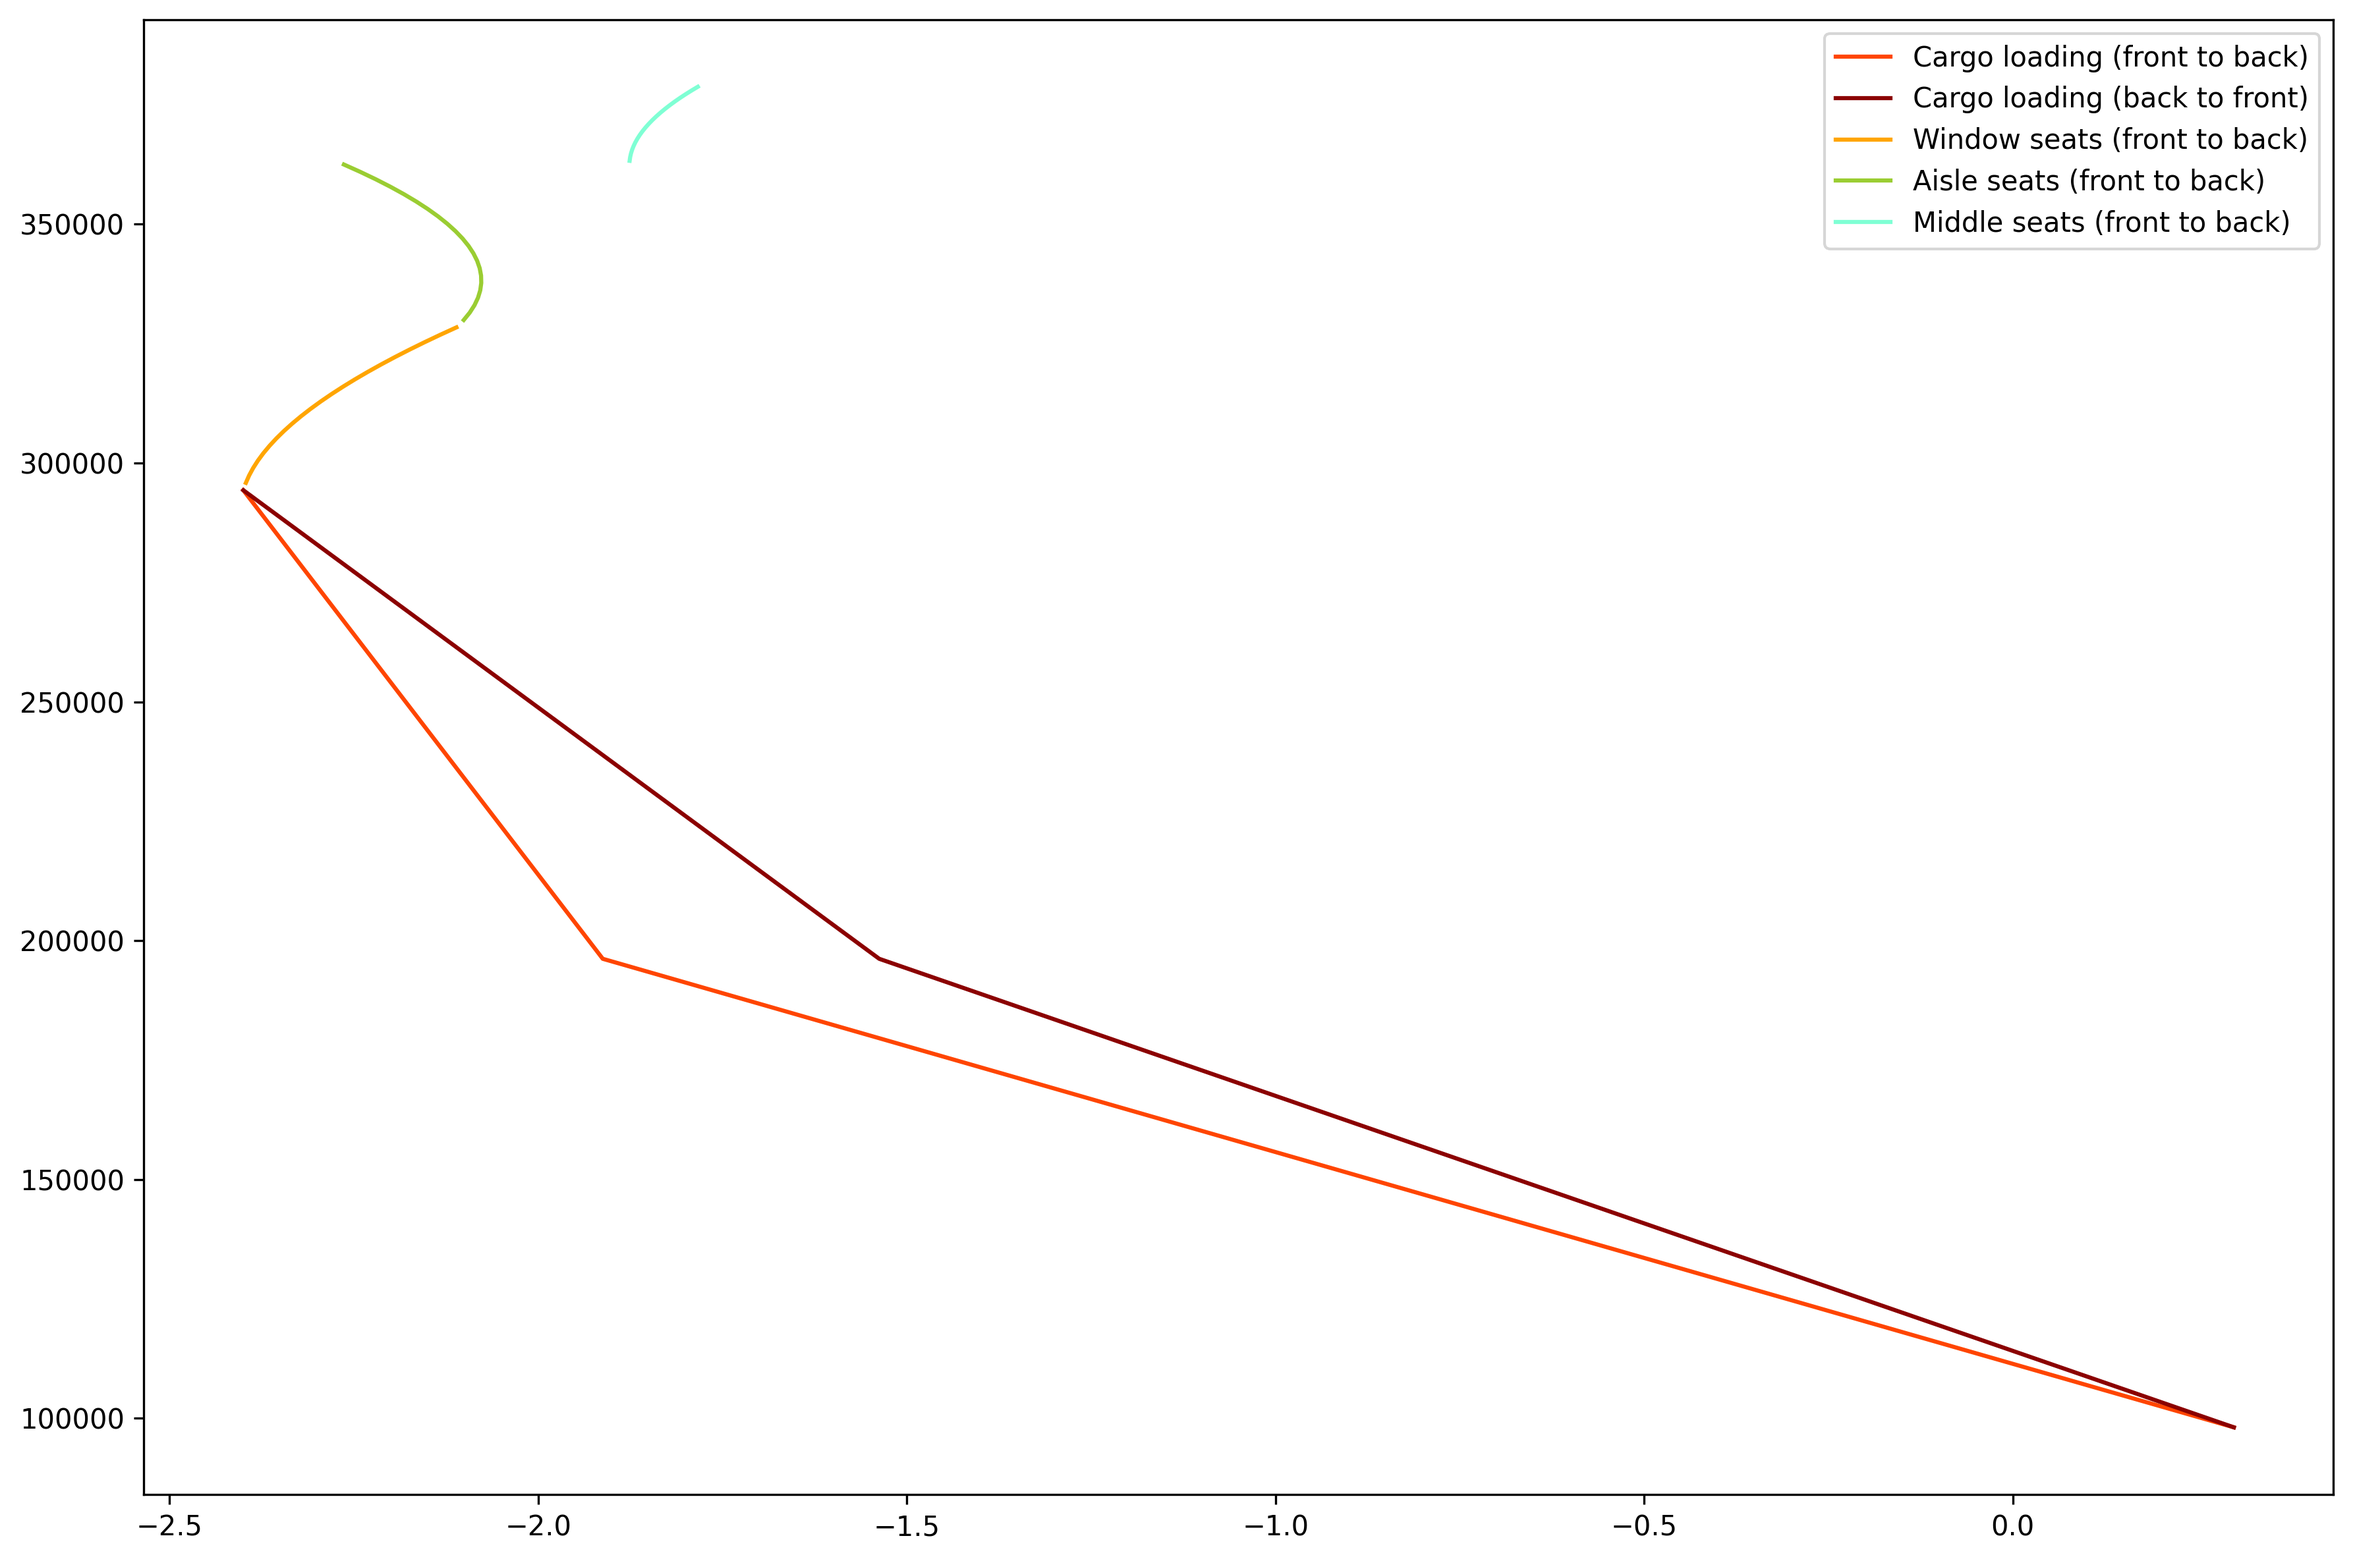
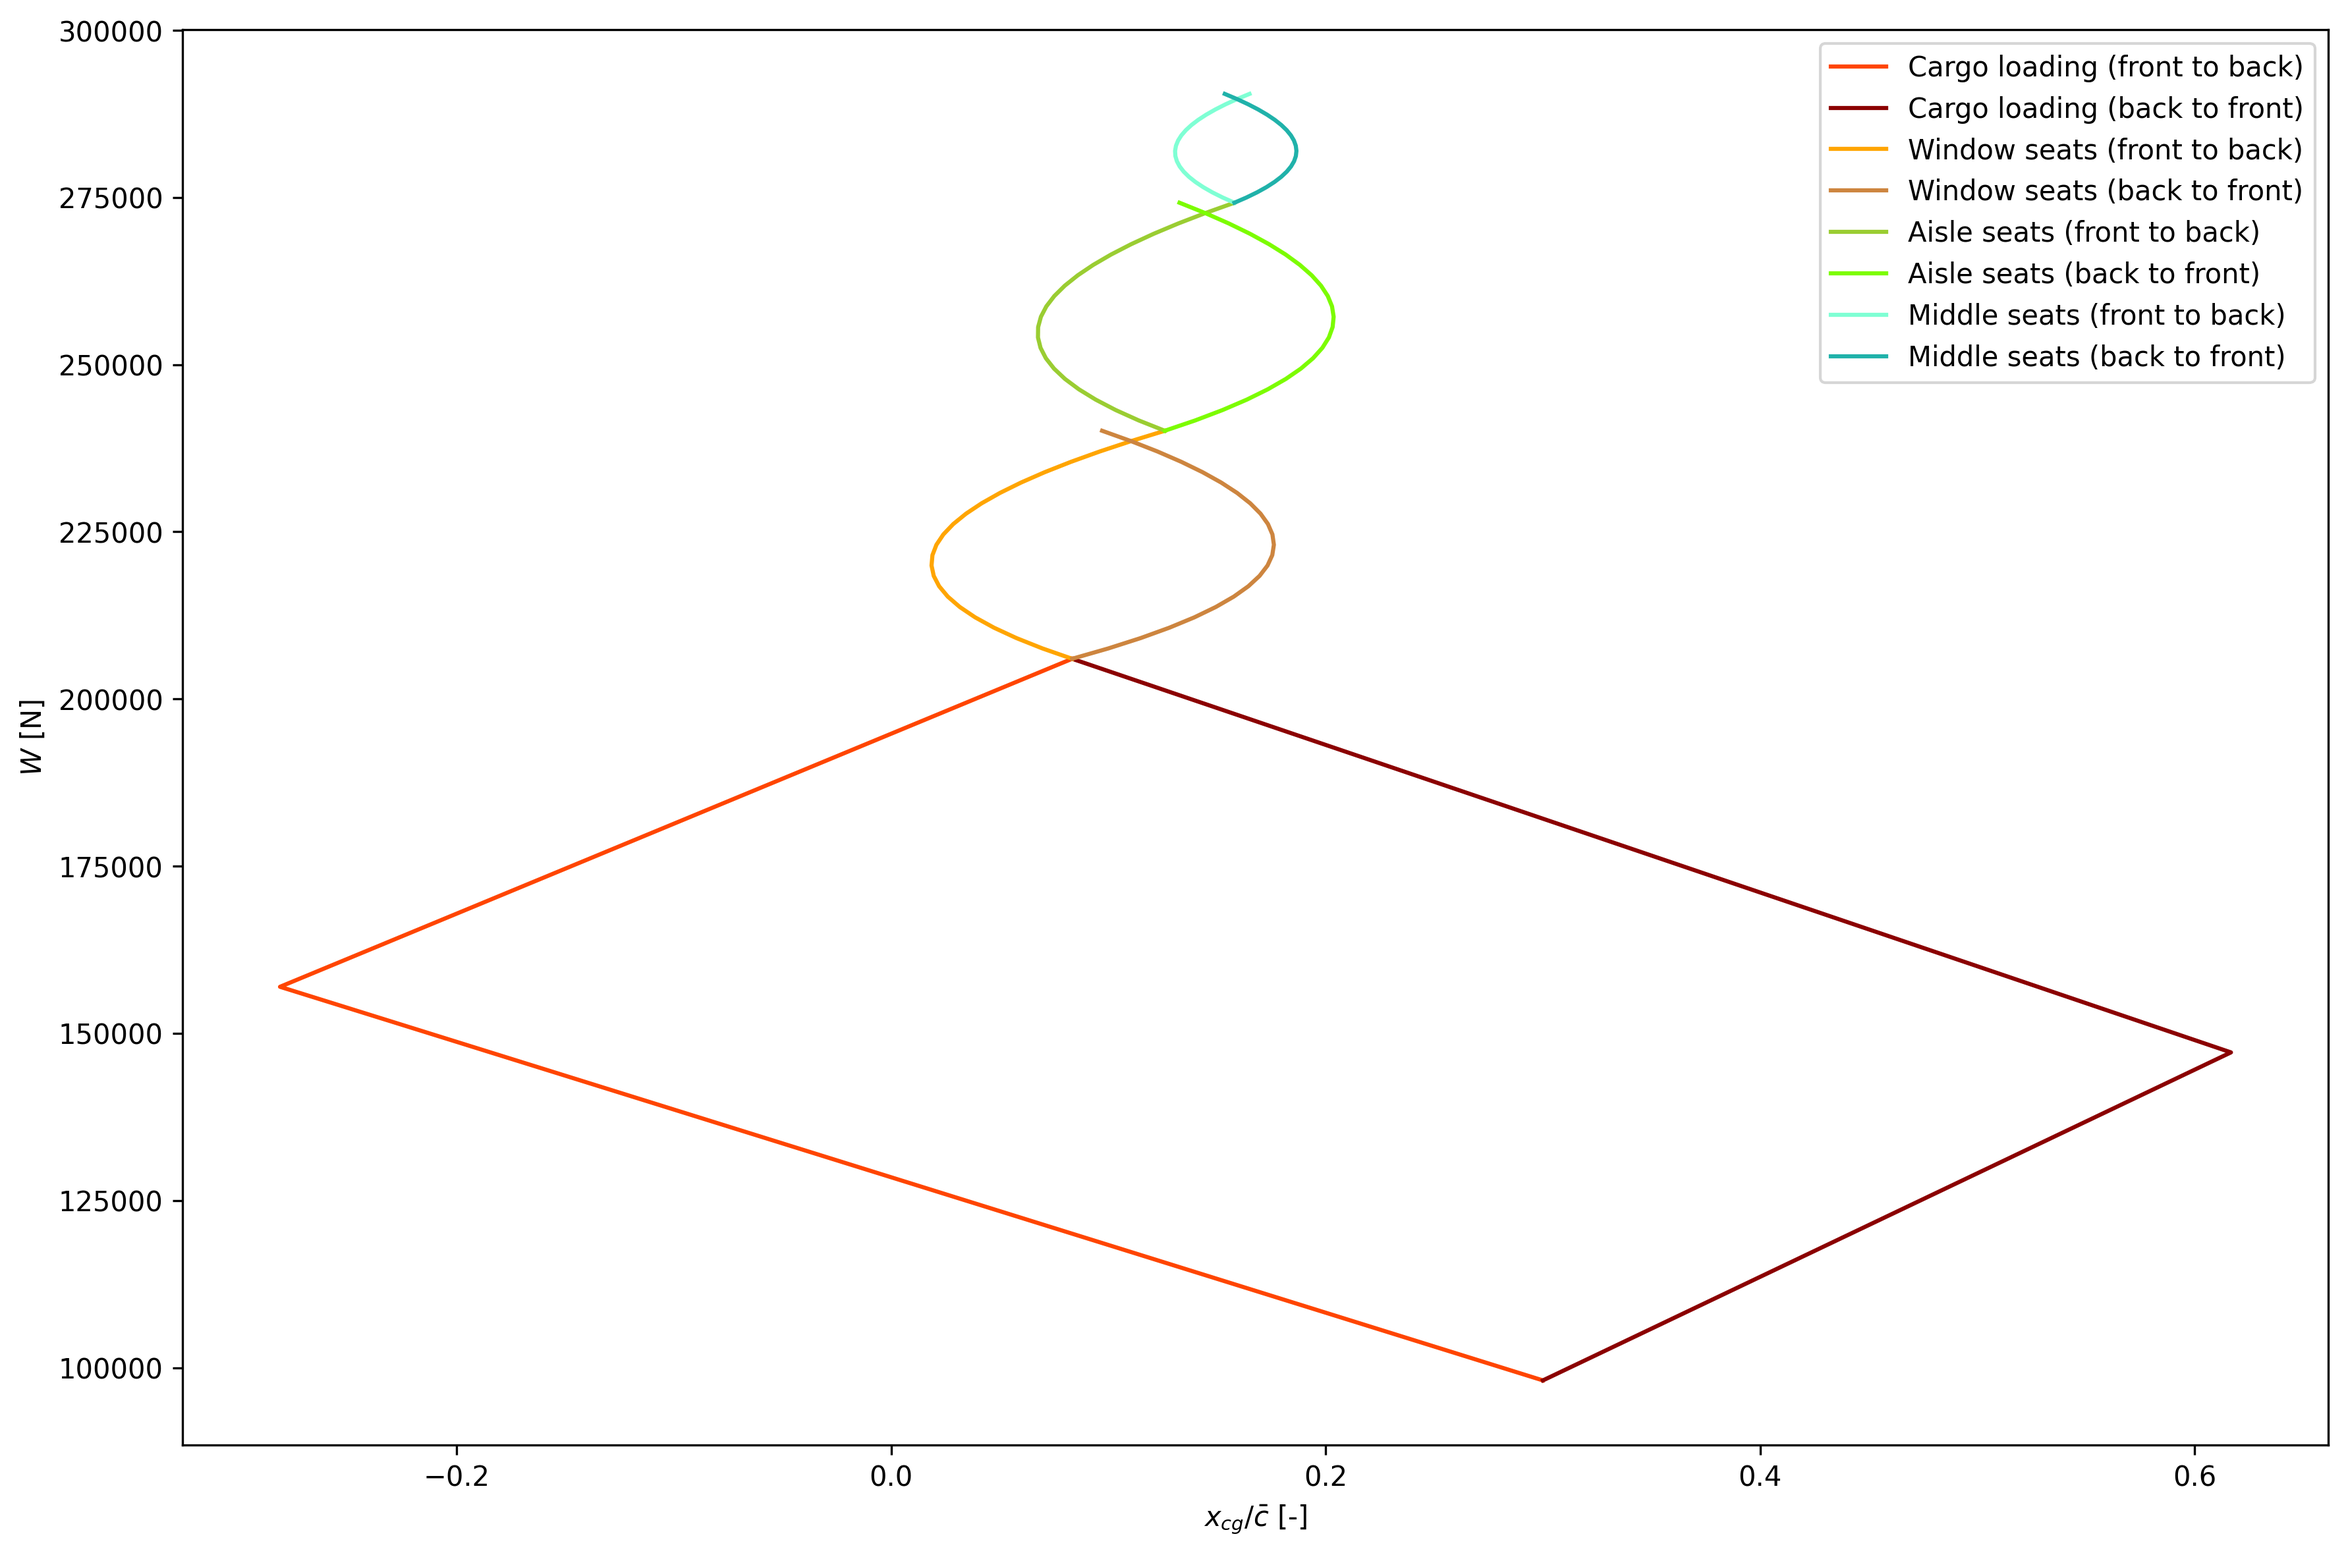
progress...

diff --git a/loading_diagram.py b/loading_diagram.py
@@ -36,87 +36,95 @@ def add_pax(
 ):
     num_full_rows, num_last_row = divmod(num_pax, 5)
     has_extra_row = num_last_row != 0
+    last_row_position = first_row_position + (num_full_rows - 1) * seat_pitch
 
     # Windows
     weights_windows = []
     cgs_windows_front_to_back = []
-    for i in range(1, num_full_rows + has_extra_row + 1):
-        weights_windows.append(start_weight + 2 * i * pax_weight)
+    cgs_windows_back_to_front = []
+    for i in range(num_full_rows + has_extra_row + 1):
+        Wi = start_weight + 2 * i * pax_weight
+        weights_windows.append(Wi)
         cgs_windows_front_to_back.append(
             (
                 start_weight * start_cg
-                + 2 * i * pax_weight * ((i - 1) / 2 * seat_pitch + first_row_position)
+                + pax_weight * (
+                    (2 * i) * ((i-1)/2 * seat_pitch + first_row_position)
+                )
             )
-            / (start_weight + 2 * i * pax_weight)
+            / Wi
+        )
+        cgs_windows_back_to_front.append(
+            (
+                start_weight * start_cg
+                + pax_weight * (
+                    (2 * i) * (last_row_position - (i-1)/2 * seat_pitch)
+                )
+            ) / Wi
         )
 
     # Aisles
     weights_aisles = []
     cgs_aisles_front_to_back = []
-    for i in range(1, num_full_rows + has_extra_row + 1):
-        weights_aisles.append(
-            start_weight + 2 * pax_weight * ((num_full_rows + has_extra_row) + i)
-        )
+    cgs_aisles_back_to_front = []
+    for i in range(num_full_rows + has_extra_row + 1):
+        Wi = start_weight + 2 * pax_weight * ((num_full_rows + has_extra_row) + i)
+        weights_aisles.append(Wi)
         cgs_aisles_front_to_back.append(
             (
                 start_weight * start_cg
-                + 2
-                * (num_full_rows + has_extra_row)
-                * pax_weight
-                * (
-                    (num_full_rows + has_extra_row - 1) / 2 * seat_pitch
-                    + first_row_position
+                + pax_weight * (
+                    (2 * (num_full_rows + has_extra_row)) * ((num_full_rows + has_extra_row - 1)/2 * seat_pitch + first_row_position)
+                    + (2 * i) * ((i-1)/2 * seat_pitch + first_row_position)
                 )
-                + 2 * i * pax_weight * ((i - 1) / 2 * seat_pitch * first_row_position)
             )
-            / (
-                start_weight
-                + pax_weight * (2 * (num_full_rows + has_extra_row) + 2 * i)
+            / Wi
+        )
+        cgs_aisles_back_to_front.append(
+            (
+                start_weight * start_cg
+                + pax_weight * (
+                    (2 * (num_full_rows + has_extra_row)) * ((num_full_rows + has_extra_row - 1)/2 * seat_pitch + first_row_position)
+                    + (2 * i) * (last_row_position - (i-1)/2 * seat_pitch)
+                )
             )
+            / Wi
         )
 
     # middle
     weights_middle = []
     cgs_middle_front_to_back = []
-    for i in range(1, num_full_rows + 1):
-        weights_middle.append(
-            start_weight + pax_weight * (4 * (num_full_rows + has_extra_row) + i)
-        )
+    cgs_middle_back_to_front = []
+    for i in range(num_full_rows + 1):
+        Wi = start_weight + pax_weight * (4 * (num_full_rows + has_extra_row) + i)
+        weights_middle.append(Wi)
         cgs_middle_front_to_back.append(
             (
                 start_weight * start_cg
-                + pax_weight
-                * (
-                    4
-                    * (num_full_rows + has_extra_row)
-                    * (
-                        (num_full_rows + has_extra_row - 1) / 2 * seat_pitch
-                        + first_row_position
-                    )
-                    + i * ((i - 1) / 2 * seat_pitch + first_row_position)
+                + pax_weight * (
+                    (4 * (num_full_rows + has_extra_row)) * ((num_full_rows + has_extra_row - 1)/2 * seat_pitch + first_row_position)
+                    + i * ((i-1)/2 * seat_pitch + first_row_position)
                 )
             )
-            / (start_weight + pax_weight * (4 * (num_full_rows + has_extra_row) + i))
+            / Wi
+        )
+        cgs_middle_back_to_front.append(
+            (
+                start_weight * start_cg
+                + pax_weight * (
+                    (4 * (num_full_rows + has_extra_row)) * ((num_full_rows + has_extra_row - 1)/2 * seat_pitch + first_row_position)
+                    + i * (last_row_position - seat_pitch - (i-1)/2 * seat_pitch)
+                )
+            )
+            / Wi
         )
 
-    ax.plot(
-        cgs_windows_front_to_back,
-        weights_windows,
-        "orange",
-        label="Window seats (front to back)",
-    )
-    ax.plot(
-        cgs_aisles_front_to_back,
-        weights_aisles,
-        "yellowgreen",
-        label="Aisle seats (front to back)",
-    )
-    ax.plot(
-        cgs_middle_front_to_back,
-        weights_middle,
-        "aquamarine",
-        label="Middle seats (front to back)",
-    )
+    ax.plot(cgs_windows_front_to_back, weights_windows, "orange", label="Window seats (front to back)")
+    ax.plot(cgs_windows_back_to_front, weights_windows, "peru", label="Window seats (back to front)")
+    ax.plot(cgs_aisles_front_to_back, weights_aisles, "yellowgreen", label="Aisle seats (front to back)")
+    ax.plot(cgs_aisles_back_to_front, weights_aisles, "lawngreen", label="Aisle seats (back to front)")
+    ax.plot(cgs_middle_front_to_back, weights_middle, "aquamarine", label="Middle seats (front to back)")
+    ax.plot(cgs_middle_back_to_front, weights_middle, "lightseagreen", label="Middle seats (back to front)")
 
     return ..., num_pax * pax_weight
 
@@ -162,6 +170,8 @@ def generate_loading_diagram(
 
     if show_legend:
         ax.legend()
+    ax.set_xlabel(r"$x_{cg}/\bar{c}$ [-]")
+    ax.set_ylabel(r"$W$ [N]")
     fig.tight_layout()
     fig.savefig(filename, dpi=300, bbox_inches="tight")
     plt.show()
@@ -175,10 +185,10 @@ if __name__ == "__main__":
         "MAC_m": 4,  # MAC, in [m]
         "OEW_kg": 10_000,  # OEW, in [kg]
         "xcg_oew": 0.3,  # xcg of the OEW, in % MAC [-]
-        "front_cargo_location_m": -1.5,  # xcg of the front cargo hold, from the nose in [m]
-        "back_cargo_location_m": 1.5,  # xcg of the back cargo hold, from the nose in [m]
-        "front_cargo_kg": 10000,  # weight of the front cargo, in [kg]
-        "back_cargo_kg": 10000,  # weight of the back cargo, in [kg]
+        "front_cargo_location_m": 10,  # xcg of the front cargo hold, from the nose in [m]
+        "back_cargo_location_m": 20,  # xcg of the back cargo hold, from the nose in [m]
+        "front_cargo_kg": 6000,  # weight of the front cargo, in [kg]
+        "back_cargo_kg": 5000,  # weight of the back cargo, in [kg]
         "num_pax": 109,  # number of passengers [-]
         "pax_kg": 79,  # weight of each passenger, in [kg]
         "first_row_position_m": 8,  # position of the first row, from the nose in [m]
